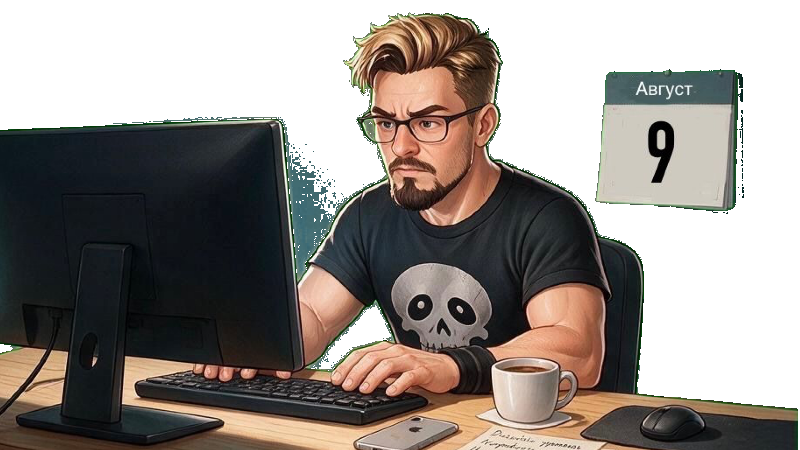
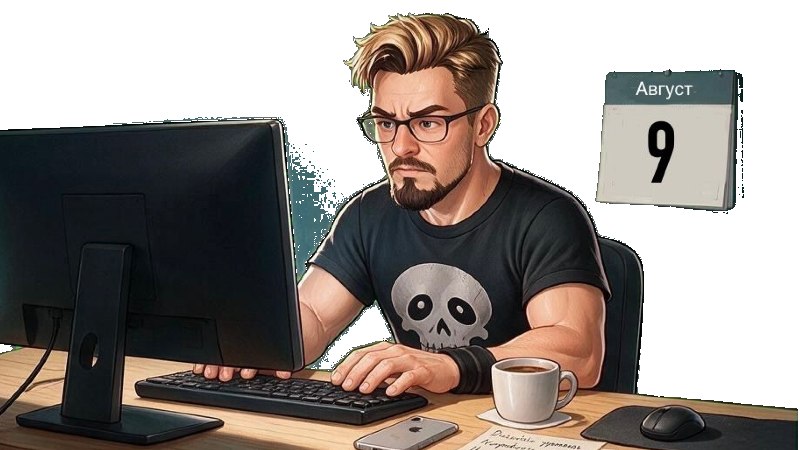
Кайма у выреза: деспилл в полную силу вдоль границы
Зелёный ободок по контуру фигур переживал первый проход: пиксель на краю
наполовину состоит из фона, до цвета хромакея ему далеко, а тёмные обводки
вдобавок не проходили проверку «зелёный ли». Теперь по маске прозрачности
строится кайма в три пикселя, и внутри неё зелень сводится к серому, а
совсем зелёное дорезается в прозрачность. Внутрь фигуры это не заходит,
так что зелёная кожа зомби на месте — проверено на кадрах 7–9.

Claude-Session: https://claude.ai/code/session_016eWYRNJPm61HBmC8pn7ugT

diff --git a/tools/comic_frames.py b/tools/comic_frames.py
@@ -23,13 +23,15 @@ import glob
 import os
 import re
 
-from PIL import Image
+from PIL import Image, ImageFilter
 
 SRC = 'assets/source/comic'
 OUT = 'assets/comic'
 
 KEY_DIST = 110      # допуск до цвета хромакея
-SPILL = 18          # насколько гасим зелёную кайму
+SPILL = 18          # насколько гасим зелёную кайму в глубине кадра
+EDGE = 7            # ширина каймы у выреза, где деспилл работает в полную силу
+EDGE_CUT = 70       # в кайме всё зеленее этого — тоже фон, дорезаем
 
 
 def greenish(c):
@@ -61,6 +63,26 @@ def cut(path):
             elif g > (r + b) / 2 + SPILL:
                 mid = (r + b) // 2
                 op[x, y] = (r, min(g, mid + SPILL), b, a)
+
+    # Кайма у самого выреза остаётся зелёной: там пиксель наполовину фон,
+    # и до цвета хромакея ему далеко, а тёмные обводки вдобавок не проходят
+    # проверку greenish. Поэтому вдоль границы деспилл идёт в полную силу —
+    # зелень сводится к серому. Внутрь фигуры это не лезет, так что зелёная
+    # кожа зомби не страдает: она далеко от края.
+    hole = out.split()[3].point(lambda v: 0 if v else 255)
+    near = hole.filter(ImageFilter.MaxFilter(EDGE)).load()
+    for y in range(h):
+        for x in range(w):
+            if not near[x, y]:
+                continue
+            r, g, b, a = op[x, y]
+            if not a:
+                continue
+            top = max(r, b)
+            if g - top > EDGE_CUT:
+                op[x, y] = (0, 0, 0, 0)
+            elif g > top:
+                op[x, y] = (r, top, b, a)
     return out, key
 
 
